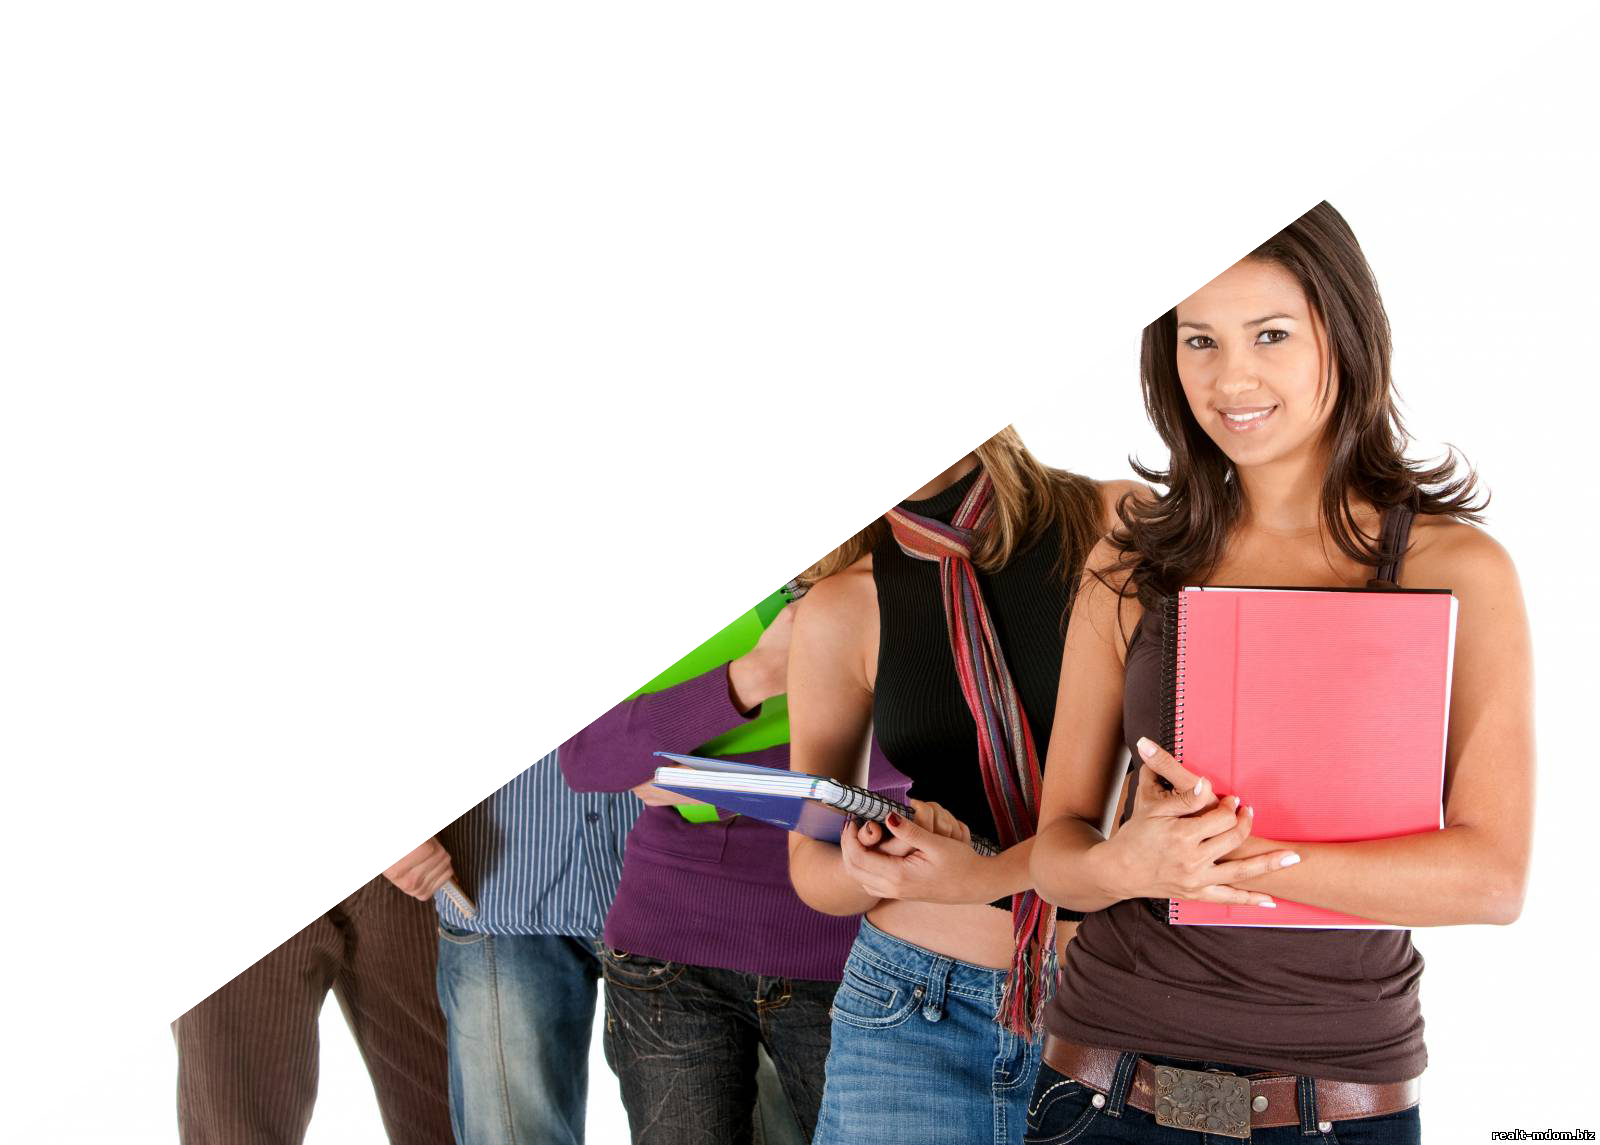
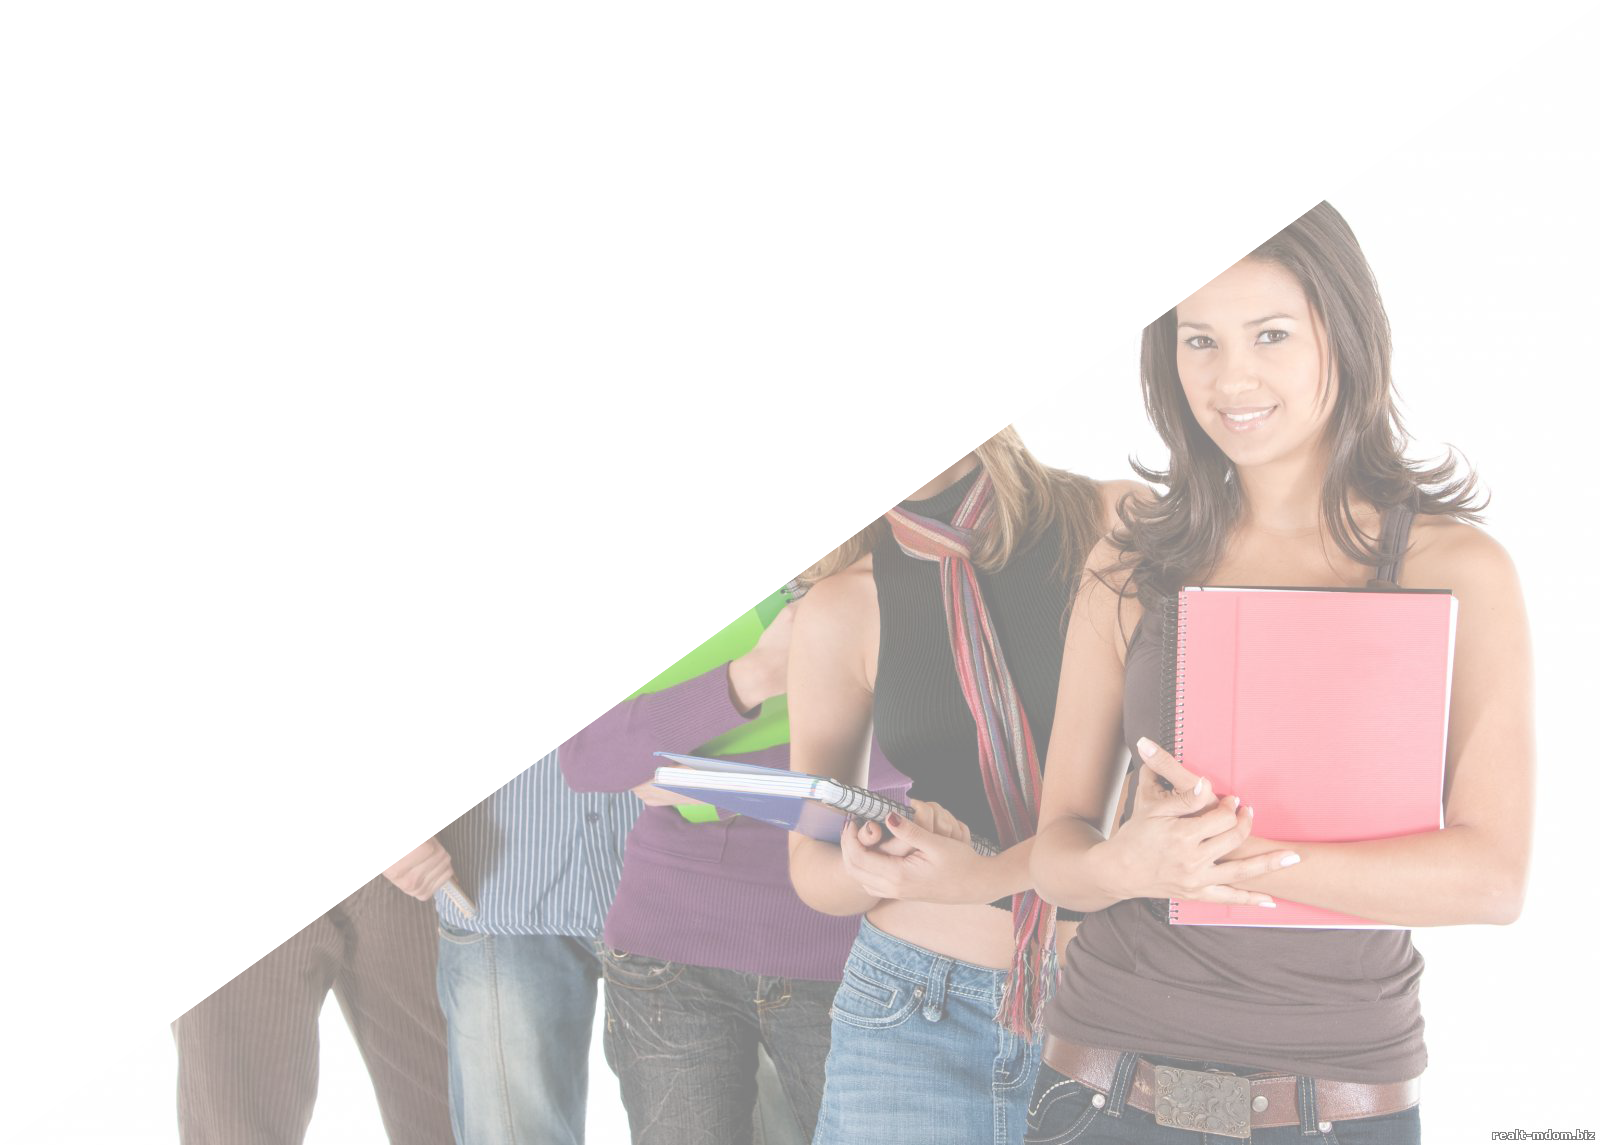
micro fix

diff --git a/app/assets/css/app.css b/app/assets/css/app.css
@@ -1,22 +1,37 @@
 @media (max-width: 768px) {
-    header {
-        background: url("../img/left_background.jpg") center fixed no-repeat;
+    body header {
+        background: url("../img/left_background.png") center fixed no-repeat;
         background-size: cover;
         height: 400px;
     }
+
+    #books {
+        display: none;
+    }
 }
+
 @media (min-width: 768px) {
-    header {
+    body header {
         background: url("../img/right_background.png") right fixed no-repeat,
-        url("../img/left_background.jpg") left fixed no-repeat;
+        url("../img/left_background.png") left fixed no-repeat;
         background-size: cover, cover;
         height: 400px;
+    }
+
+    #books {
+        opacity: 0;
+        height: 300px;
+        width: 100px;
+        display: block;
+        float: right;
+        margin-top: 20px;
+        margin-right: -5000px;
     }
 }
 
 body {
-    background: url("../img/bg.jpg") repeat;
     font-family: "Helvetica Neue", serif;
+    overflow-x: hidden;
 }
 
 .custom-carousel {
@@ -30,6 +45,10 @@ body {
 
 .content {
     background: #FFFFFF;
+}
+
+.full-content {
+    background: url("../img/bg.jpg") repeat;
 }
 
 .tab-pane {

diff --git a/app/components/main.html b/app/components/main.html
@@ -1,5 +1,9 @@
 <div class="row">
-    <header></header>
+    <header>
+        <img id="books" src="assets/img/books.png">
+    </header>
+</div>
+<div class="row full-content">
     <div class="content col-md-10 offset-md-1">
         <div class="row">
             <div class="custom-carousel col-md-8 offset-md-2">
@@ -57,4 +61,6 @@
             </p>
         </article>
     </div>
+
+    <script src="assets/js/books.js"></script>
 </div>

diff --git a/app/components/zet.html b/app/components/zet.html
@@ -1,4 +1,4 @@
-<div class="row">
+<div class="row full-content">
     <div class="content col-md-10 offset-md-1">
         <article>
             <h4>Базовий алгоритм сімейства ZET</h4>

diff --git a/app/components/wanga.html b/app/components/wanga.html
@@ -1,4 +1,4 @@
-<div class="row">
+<div class="row full-content">
     <div class="content col-md-10 offset-md-1">
         <article>
             <h4>Алгоритми сімейства WANGA</h4>

diff --git a/app/assets/js/books.js b/app/assets/js/books.js
@@ -1,0 +1,2 @@
+$("#books").animate({"margin-right":"20px"}, { duration: 1500, queue: false });
+$("#books").animate({"opacity": "1"}, { duration: 2500, queue: false });
